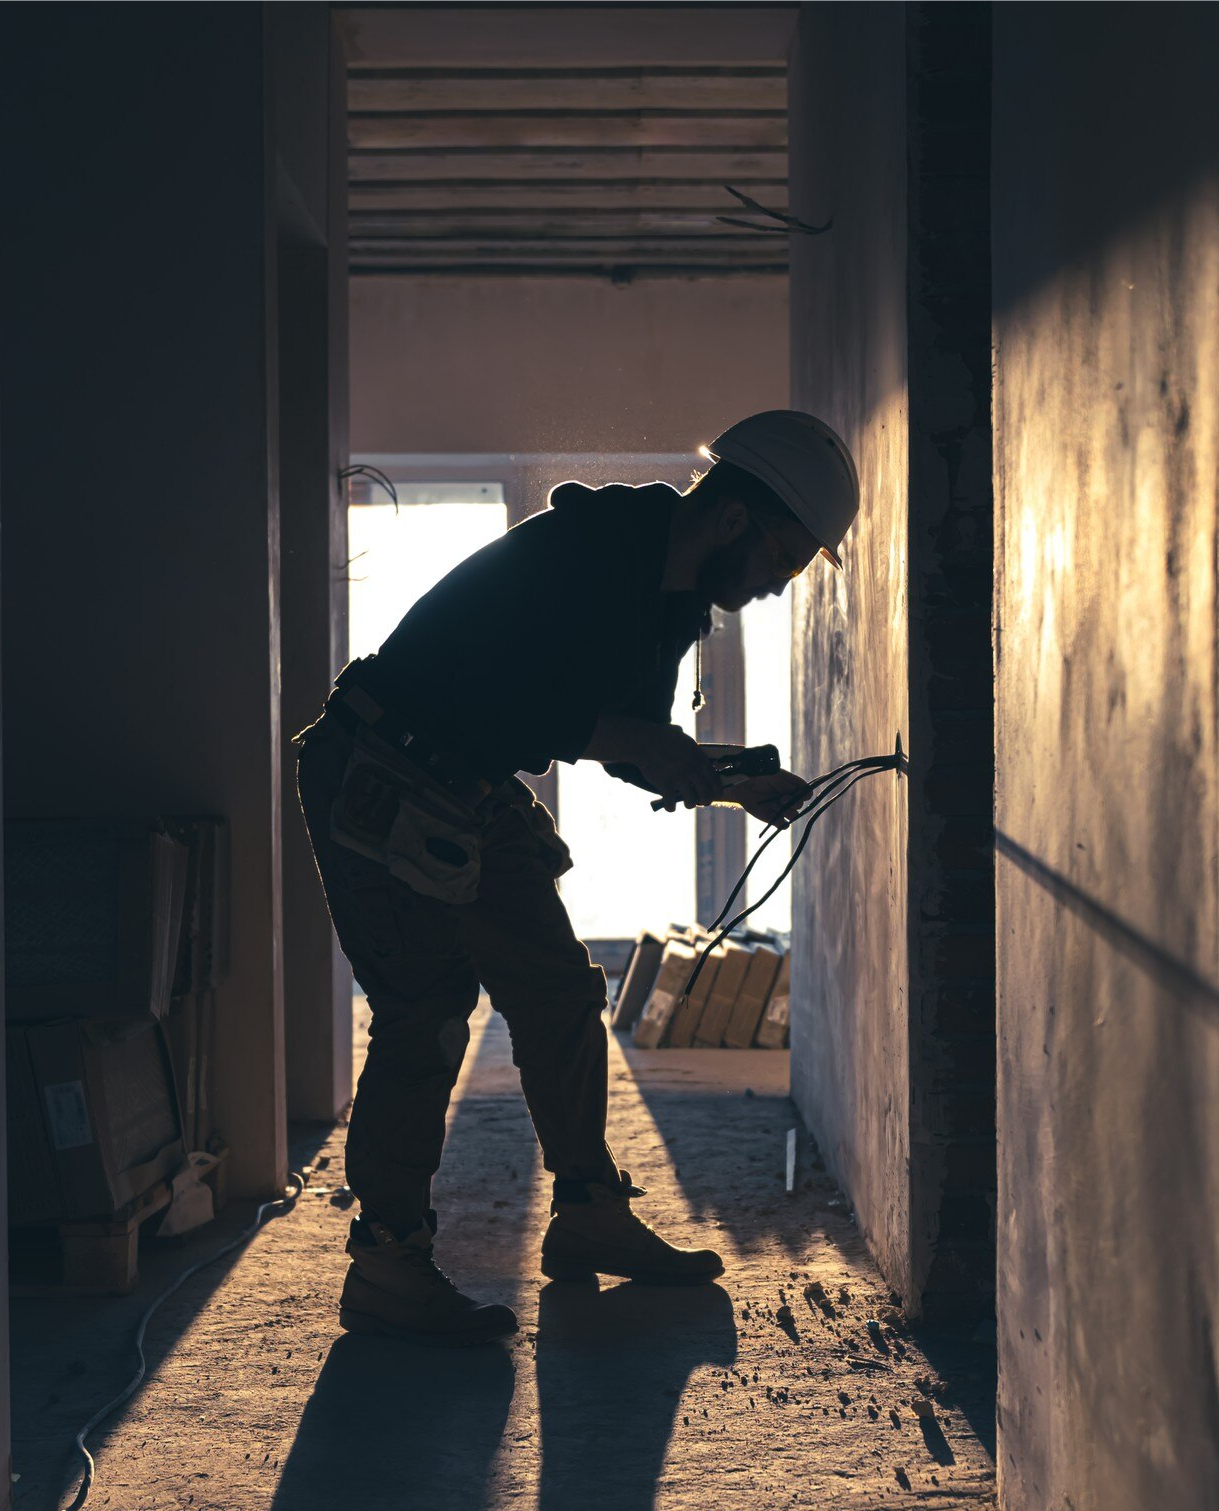
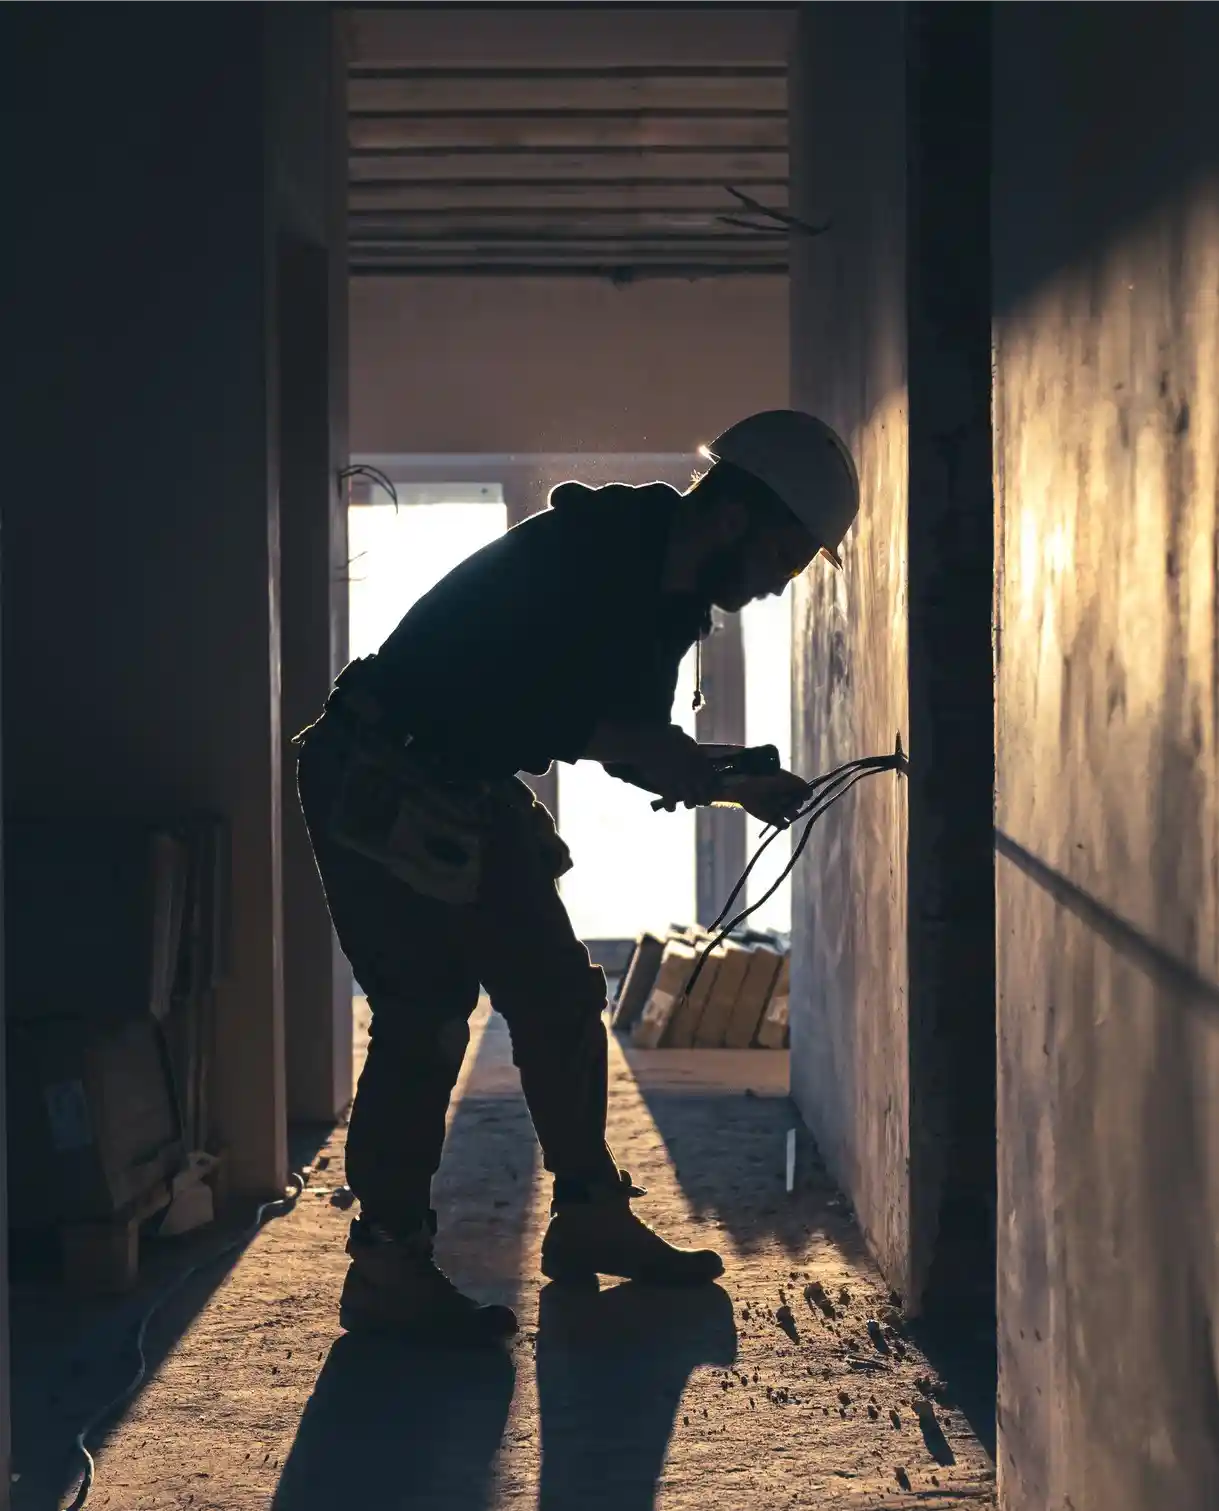
mejorando rendimiento

Changed region(s): [[0.5299, 0.8398, 0.8105, 1.0], [0.0623, 0.8398, 0.2806, 1.0], [0.4053, 0.9332, 0.4364, 0.9954]]

diff --git a/src/app/servicios-refrigeracion/servicios-refrigeracion.component.ts b/src/app/servicios-refrigeracion/servicios-refrigeracion.component.ts
@@ -1,10 +1,8 @@
 import { Component, ElementRef, ViewChild } from '@angular/core';
 import { CommonModule } from '@angular/common';
 import { HttpClient } from '@angular/common/http';
-import { environment } from '../../environments/environment';
 import { ModalFormularioComponent } from '../modal-formulario/modal-formulario.component';
 
-declare var MercadoPago: any;
 
 @Component({
   selector: 'app-servicios-refrigeracion',
@@ -14,7 +12,6 @@ declare var MercadoPago: any;
 })
 export class ServiciosRefrigeracionComponent {
 
-  publicKey = environment.mercadoPagoPublicKey;
   constructor(private http: HttpClient) { }
 
   servicios = [
@@ -41,42 +38,7 @@ export class ServiciosRefrigeracionComponent {
     },
   ]
 
-  // comprar(servicioId: string) {
-  //   // Mostrar estado de carga
-  //   let loading = true;
 
-  //   this.http.post<{ id: string }>(
-  //     'https://repobackbc.onrender.com/crear-preferencia',
-  //     { servicio: servicioId }
-  //   ).subscribe({
-  //     next: (data) => {
-  //       if (data?.id) {
-  //         console.log('Preferencia creada:', data);
-  //         window.location.href = `https://www.mercadopago.com.ar/checkout/v1/redirect?preference_id=${data.id}`;
-  //       } else {
-  //         console.error('Respuesta inesperada:', data);
-  //         alert('No se recibió un ID de preferencia válido');
-  //       }
-  //     },
-  //     error: (err) => {
-  //       console.error('Error completo:', err);
-  //       let errorMessage = 'Error al procesar el pago';
-
-  //       if (err.error?.error) {
-  //         errorMessage = err.error.error;
-  //         if (err.error.details) {
-  //           errorMessage += `: ${err.error.details}`;
-  //         }
-  //       }
-
-  //       alert(errorMessage);
-  //     },
-  //     complete: () => {
-  //       // Ocultar estado de carga
-  //       loading = false;
-  //     }
-  //   });
-  // }
 
   modalActivo = false;
   servicioSeleccionado = '';
@@ -94,22 +56,6 @@ export class ServiciosRefrigeracionComponent {
   }
 
 
-  // async renderWalletBrick(preferenceId: string) {
-  //   const mp = new MercadoPago(this.publicKey);
-  //   const bricksBuilder = mp.bricks();
-
-  //   // Eliminamos botón anterior si ya existía
-  //   const container = document.getElementById('walletBrick_container');
-  //   if (container) container.innerHTML = '';
-
-  //   await bricksBuilder.create("wallet", "walletBrick_container", {
-  //     initialization: {
-  //       preferenceId: preferenceId
-  //     }
-  //   });
-  // }
-
-
 
   ngAfterViewInit(): void {
     const observer = new IntersectionObserver((entries) => {
@@ -119,7 +65,7 @@ export class ServiciosRefrigeracionComponent {
           entry.target.classList.remove('opacity-0'); // Sacar invisible
         }
       });
-    }, { threshold: 0.5 });
+    }, { threshold: 0.3 });
 
     const elements: NodeListOf<Element> = document.querySelectorAll('.lazyCard');
     elements.forEach((el) => observer.observe(el));

diff --git a/src/app/hero/hero.component.ts b/src/app/hero/hero.component.ts
@@ -1,31 +1,40 @@
-import { Component } from '@angular/core';
+import { AfterViewInit, Component, OnDestroy } from '@angular/core';
 import { ServiciosRefrigeracionComponent } from '../servicios-refrigeracion/servicios-refrigeracion.component';
 import { ElectricidadComponent } from '../electricidad/electricidad.component';
 import { ContactoComponent } from '../contacto/contacto.component';
 
 @Component({
   selector: 'app-hero',
+  standalone: true,
   imports: [ServiciosRefrigeracionComponent, ElectricidadComponent, ContactoComponent],
   templateUrl: './hero.component.html',
-  styleUrl: './hero.component.css'
+  styleUrl: './hero.component.css',
 })
-export class HeroComponent {
+export class HeroComponent implements AfterViewInit, OnDestroy {
+  private observer!: IntersectionObserver;
 
   ngAfterViewInit(): void {
-    const observer = new IntersectionObserver((entries) => {
-      entries.forEach(entry => {
-        if (entry.isIntersecting) {
-          entry.target.classList.add('animate__fadeInUp', 'opacity-100');
-          entry.target.classList.remove('opacity-0');
-        } else {
-          // Cuando sale de la pantalla, quitar la animación y volver a invisible
-          entry.target.classList.remove('animate__fadeInUp', 'opacity-100');
-          entry.target.classList.add('opacity-0');
+    this.observer = new IntersectionObserver(
+      (entries) => {
+        for (const entry of entries) {
+          const el = entry.target as HTMLElement;
+          if (entry.isIntersecting) {
+            el.classList.add('animate__fadeInUp', 'opacity-100');
+            el.classList.remove('opacity-0');
+          } else {
+            el.classList.remove('animate__fadeInUp', 'opacity-100');
+            el.classList.add('opacity-0');
+          }
         }
-      });
-    }, { threshold: 0.1 });
+      },
+      { threshold: 0.1 }
+    );
 
-    const elements: NodeListOf<Element> = document.querySelectorAll('.lazyHero');
-    elements.forEach((el) => observer.observe(el));
+    document.querySelectorAll('.lazyHero').forEach((el) => this.observer.observe(el));
+  }
+
+  ngOnDestroy(): void {
+    // 🔁 Limpieza para evitar fugas de memoria
+    this.observer?.disconnect();
   }
 }

diff --git a/src/index.html b/src/index.html
@@ -1,31 +1,35 @@
 <!doctype html>
-<html lang="en">
-
+<html lang="es"> <!-- Mejor usar 'es' si tu contenido está en español -->
 <head>
   <meta charset="utf-8">
   <title>Bajo Cero</title>
   <base href="/">
   <meta name="viewport" content="width=device-width, initial-scale=1">
   <link rel="icon" type="image/x-icon" href="/logo-simplificado.ico">
+
+  <!-- Fonts optimizadas -->
   <link rel="preconnect" href="https://fonts.googleapis.com">
-<link rel="preconnect" href="https://fonts.gstatic.com" crossorigin>
-<link href="https://fonts.googleapis.com/css2?family=Montserrat:ital,wght@0,100..900;1,100..900&display=swap" rel="stylesheet">
- <link
+  <link rel="preconnect" href="https://fonts.gstatic.com" crossorigin>
+  <link href="https://fonts.googleapis.com/css2?family=Montserrat:wght@300;400;600;700&display=swap" rel="stylesheet">
+
+  <!-- Animate.css: cargado con media print para evitar bloqueo de render -->
+  <link
     rel="stylesheet"
     href="https://cdnjs.cloudflare.com/ajax/libs/animate.css/4.1.1/animate.min.css"
+    media="print" onload="this.media='all'"
   />
-  <link href="https://cdn.jsdelivr.net/npm/bootstrap-icons@1.10.5/font/bootstrap-icons.css" rel="stylesheet">
-  <link
-  rel="stylesheet"
-  href="https://cdn.jsdelivr.net/npm/swiper@11/swiper-bundle.min.css"
-/>
 
-<script src="https://cdn.jsdelivr.net/npm/swiper@11/swiper-bundle.min.js"></script>
+  <!-- Bootstrap Icons (⚠ solo si no usás SVG inline) -->
+  <link href="https://cdn.jsdelivr.net/npm/bootstrap-icons@1.10.5/font/bootstrap-icons.css" rel="stylesheet" media="print" onload="this.media='all'">
+
+  <!-- Swiper styles -->
+  <link rel="stylesheet" href="https://cdn.jsdelivr.net/npm/swiper@11/swiper-bundle.min.css" media="print" onload="this.media='all'">
+
+  <!-- Swiper script (defer para no bloquear carga) -->
+  <script src="https://cdn.jsdelivr.net/npm/swiper@11/swiper-bundle.min.js" defer></script>
 </head>
 
 <body>
   <app-root></app-root>
-  <script src="https://sdk.mercadopago.com/js/v2"></script>
 </body>
-
 </html>

diff --git a/src/app/sobre-nosotros/sobre-nosotros.component.html b/src/app/sobre-nosotros/sobre-nosotros.component.html
@@ -90,7 +90,7 @@
                     <!-- Slides -->
                     <div class="swiper-slide">
                         <div class="aspect-[4/5] overflow-hidden rounded-lg shadow-md">
-                            <img src="/post1.png" alt="Imagen 1" class="w-full h-full object-cover" />
+                            <img src="/post1.png" loading="lazy" alt="Imagen 1" class="w-full h-full object-cover" />
                         </div>
                     </div>
                     <div class="swiper-slide">
@@ -100,7 +100,7 @@
                     </div>
                     <div class="swiper-slide">
                         <div class="aspect-[4/5] overflow-hidden rounded-lg shadow-md">
-                            <img src="/post2.png" alt="Imagen 3" class="w-full h-full object-cover" />
+                            <img src="/post2.png" loading="lazy" alt="Imagen 3" class="w-full h-full object-cover" />
                         </div>
                     </div>
                     <div class="swiper-slide">
@@ -110,7 +110,7 @@
                     </div>
                     <div class="swiper-slide">
                         <div class="aspect-[4/5] overflow-hidden rounded-lg shadow-md">
-                            <img src="/post3.png" alt="Imagen 3" class="w-full h-full object-cover" />
+                            <img src="/post3.png" loading="lazy" alt="Imagen 3" class="w-full h-full object-cover" />
                         </div>
                     </div>
                     <div class="swiper-slide">

diff --git a/src/app/app.routes.ts b/src/app/app.routes.ts
@@ -1,17 +1,11 @@
 import { Routes } from '@angular/router';
 import { HeroComponent } from './hero/hero.component';
-import { PagoExitosoComponent } from './pago-exitoso/pago-exitoso.component';
-import { PagoFallidoComponent } from './pago-fallido/pago-fallido.component';
-import { PagoPendienteComponent } from './pago-pendiente/pago-pendiente.component';
-import { SobreNosotrosComponent } from './sobre-nosotros/sobre-nosotros.component';
 
 export const routes: Routes = [
     {
         path: '', component: HeroComponent
     },
-    { path: 'sobre-nosotros', component: SobreNosotrosComponent },
-    // { path: 'pago-exitoso', component: PagoExitosoComponent },
-    // { path: 'pago-fallido', component: PagoFallidoComponent },
-    // { path: 'pago-pendiente', component: PagoPendienteComponent },
+    { path: 'sobre-nosotros',  loadComponent: () => import('./sobre-nosotros/sobre-nosotros.component')
+    .then(m => m.SobreNosotrosComponent) },
     { path: '**', redirectTo: '' }
 ];

diff --git a/src/app/contacto/contacto.component.ts b/src/app/contacto/contacto.component.ts
@@ -27,21 +27,4 @@ form: FormGroup;
     }
   }
 
-  ngAfterViewInit(): void {
-    const observer = new IntersectionObserver((entries) => {
-      entries.forEach(entry => {
-        if (entry.isIntersecting) {
-          entry.target.classList.add('animate__fadeInRight', 'opacity-100');
-          entry.target.classList.remove('opacity-0');
-        } //else {
-          // Cuando sale de la pantalla, quitar la animación y volver a invisible
-          // entry.target.classList.remove('animate__fadeInUp', 'opacity-100');
-          // entry.target.classList.add('opacity-0');
-        //}
-      });
-    }, { threshold: 0.1 });
-
-    const elements: NodeListOf<Element> = document.querySelectorAll('.lazyIlustration');
-    elements.forEach((el) => observer.observe(el));
-  }
 }

diff --git a/src/app/servicios-refrigeracion/servicios-refrigeracion.component.html b/src/app/servicios-refrigeracion/servicios-refrigeracion.component.html
@@ -9,7 +9,6 @@
     <div class="lazyCard bg-zinc-100 rounded-xl p-5 lg:p-11 shadow-md opacity-0 animate__animated">
         <div class="h-full lg:flex flex-col justify-between">
           <div class="flex flex-col">
-
             <div class="flex flex-row items-baseline gap-2 text-sky-600 pb-2">
             <i class="lg:text-2xl 2xl:text-3xl" [ngClass]="servicio.icon"></i>
             <h4 class="font-bold lg:text-2xl xl:text-3xl ">{{servicio.nombre}}</h4>

diff --git a/src/app/contacto/contacto.component.html b/src/app/contacto/contacto.component.html
@@ -44,7 +44,7 @@
 
     <!-- Imagen / ilustración -->
     <div class="w-full h-full rounded-lg flex items-center justify-center overflow-hidden ">
-      <img src="/ilustracion.png" class="h-56 sm:h-64 md:h-72 lg:h-80 xl:h-96  animate__animated lazyIlustration">
+      <img src="/ilustracion.png" class="h-56 sm:h-64 md:h-72 lg:h-80 xl:h-96">
     </div>
 
   </div>

diff --git a/src/app/hero/hero.component.html b/src/app/hero/hero.component.html
@@ -1,5 +1,3 @@
-
-
 <main class="relative shadow-lg z-20">
 <section class="bg-white h-[70vh]">
   <div class="relative h-full flex items-center justify-center bg-fixed bg-[url('/foto-hero.webp')] bg-[50%_20%] bg-no-repeat bg-cover overflow-hidden transition-all">
